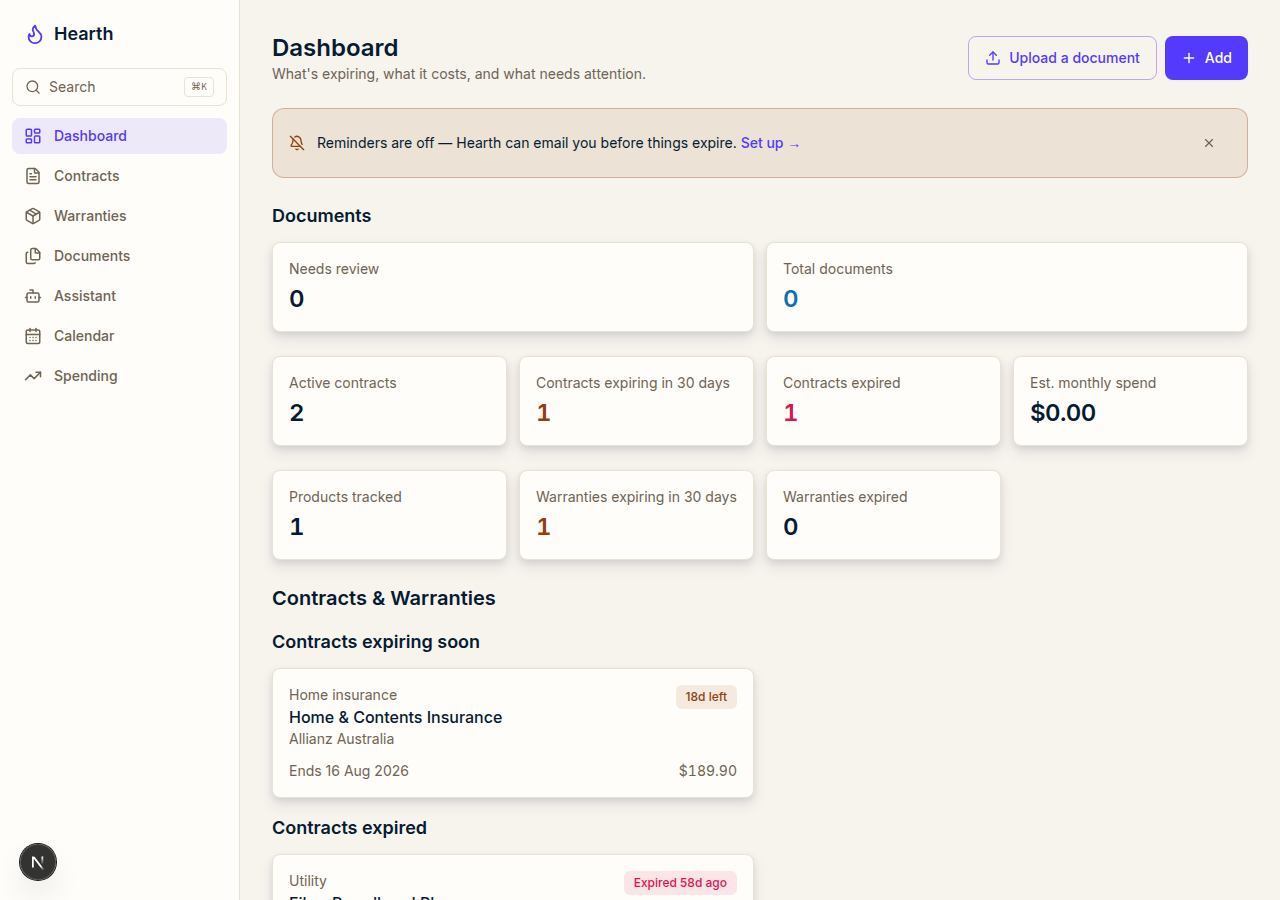
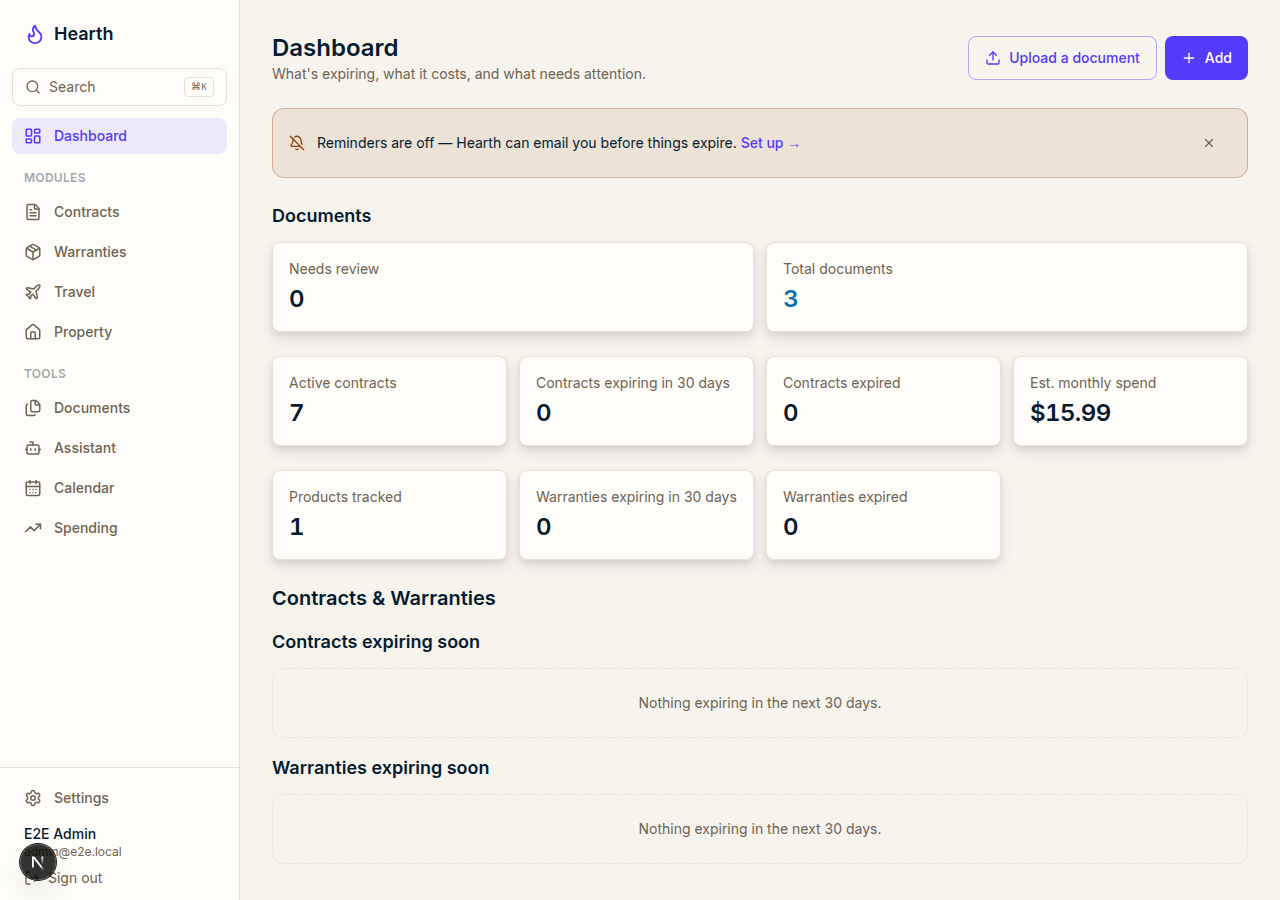
Group nav items into Modules/Tools sections, hide Assistant when unconfigured
Sidebar, mobile nav drawer, and bottom-nav "More" sheet now render
Dashboard standalone, followed by a Modules section (Contracts,
Warranties, plus enabled optional modules) and a Tools section
(Documents, Assistant, Calendar, Spending), per #125. getNavItems() also
drops the Assistant item entirely when no AI provider is configured for
the signed-in user, per #135.

Closes #125, #135

Claude-Session: https://claude.ai/code/session_01WJXJ5h3vGtjTTawv3Lkwcm

diff --git a/src/components/BottomNav.tsx b/src/components/BottomNav.tsx
@@ -17,10 +17,16 @@ function isActive(href: string, pathname: string) {
 // never grows past 5 slots on small screens.
 const PRIMARY_HREFS = ["/dashboard", "/contracts", "/products", "/calendar"];
 
-export function BottomNav({ enabledModules }: { enabledModules: ModuleKey[] }) {
+export function BottomNav({
+  enabledModules,
+  chatConfigured,
+}: {
+  enabledModules: ModuleKey[];
+  chatConfigured: boolean;
+}) {
   const pathname = usePathname();
   const [moreOpen, setMoreOpen] = useState(false);
-  const items = getNavItems(new Set(enabledModules));
+  const items = getNavItems(new Set(enabledModules), chatConfigured);
 
   // Close automatically on route change (link click).
   const [prevPathname, setPrevPathname] = useState(pathname);
@@ -42,6 +48,8 @@ export function BottomNav({ enabledModules }: { enabledModules: ModuleKey[] }) {
     (i): i is NonNullable<typeof i> => i != null,
   );
   const overflow = items.filter((i) => !PRIMARY_HREFS.includes(i.href));
+  const overflowModules = overflow.filter((i) => i.group === "modules");
+  const overflowTools = overflow.filter((i) => i.group === "tools");
   const overflowActive =
     overflow.some((i) => isActive(i.href, pathname)) || isActive("/settings", pathname);
 
@@ -102,8 +110,36 @@ export function BottomNav({ enabledModules }: { enabledModules: ModuleKey[] }) {
                 <X size={18} />
               </button>
             </div>
+            {overflowModules.length > 0 && (
+              <p className="mb-1.5 text-xs font-semibold uppercase tracking-wide text-foreground/40">
+                Modules
+              </p>
+            )}
             <div className="grid grid-cols-3 gap-2">
-              {overflow.map(({ href, label, icon: Icon }) => (
+              {overflowModules.map(({ href, label, icon: Icon }) => (
+                <Link
+                  key={href}
+                  href={href}
+                  className={cn(
+                    "flex flex-col items-center gap-1.5 rounded-lg p-3 text-xs font-medium",
+                    isActive(href, pathname)
+                      ? "bg-accent/10 text-accent"
+                      : "text-foreground/70 hover:bg-black/5 dark:hover:bg-white/5",
+                  )}
+                >
+                  <Icon size={20} />
+                  {label}
+                </Link>
+              ))}
+            </div>
+
+            {overflowTools.length > 0 && (
+              <p className="mb-1.5 mt-3 text-xs font-semibold uppercase tracking-wide text-foreground/40">
+                Tools
+              </p>
+            )}
+            <div className="grid grid-cols-3 gap-2">
+              {overflowTools.map(({ href, label, icon: Icon }) => (
                 <Link
                   key={href}
                   href={href}

diff --git a/src/components/MobileNavDrawer.tsx b/src/components/MobileNavDrawer.tsx
@@ -31,14 +31,19 @@ export function MobileNavDrawer({
   userName,
   userEmail,
   enabledModules,
+  chatConfigured,
 }: {
   userName: string;
   userEmail: string;
   enabledModules: ModuleKey[];
+  chatConfigured: boolean;
 }) {
   const pathname = usePathname();
   const [open, setOpen] = useState(false);
-  const items = getNavItems(new Set(enabledModules));
+  const items = getNavItems(new Set(enabledModules), chatConfigured);
+  const dashboardItems = items.filter((item) => item.group === "dashboard");
+  const moduleItems = items.filter((item) => item.group === "modules");
+  const toolItems = items.filter((item) => item.group === "tools");
   const startX = useRef<number | null>(null);
   const dragging = useRef(false);
 
@@ -125,7 +130,47 @@ export function MobileNavDrawer({
           </button>
         </div>
         <nav className="flex-1 space-y-1 overflow-y-auto px-3">
-          {items.map(({ href, label, icon: Icon }) => (
+          {dashboardItems.map(({ href, label, icon: Icon }) => (
+            <Link
+              key={href}
+              href={href}
+              onClick={close}
+              className={cn(
+                "flex items-center gap-3 rounded-lg px-3 py-2.5 text-sm font-medium transition",
+                isActive(href, pathname)
+                  ? "bg-accent/10 text-accent"
+                  : "text-foreground/70 hover:bg-black/5 dark:hover:bg-white/5",
+              )}
+            >
+              <Icon size={18} />
+              {label}
+            </Link>
+          ))}
+
+          <p className="mt-4 px-3 pb-1 text-xs font-semibold uppercase tracking-wide text-foreground/40">
+            Modules
+          </p>
+          {moduleItems.map(({ href, label, icon: Icon }) => (
+            <Link
+              key={href}
+              href={href}
+              onClick={close}
+              className={cn(
+                "flex items-center gap-3 rounded-lg px-3 py-2.5 text-sm font-medium transition",
+                isActive(href, pathname)
+                  ? "bg-accent/10 text-accent"
+                  : "text-foreground/70 hover:bg-black/5 dark:hover:bg-white/5",
+              )}
+            >
+              <Icon size={18} />
+              {label}
+            </Link>
+          ))}
+
+          <p className="mt-4 px-3 pb-1 text-xs font-semibold uppercase tracking-wide text-foreground/40">
+            Tools
+          </p>
+          {toolItems.map(({ href, label, icon: Icon }) => (
             <Link
               key={href}
               href={href}

diff --git a/src/components/Sidebar.tsx b/src/components/Sidebar.tsx
@@ -17,13 +17,18 @@ export function Sidebar({
   userName,
   userEmail,
   enabledModules,
+  chatConfigured,
 }: {
   userName: string;
   userEmail: string;
   enabledModules: ModuleKey[];
+  chatConfigured: boolean;
 }) {
   const pathname = usePathname();
-  const items = getNavItems(new Set(enabledModules));
+  const items = getNavItems(new Set(enabledModules), chatConfigured);
+  const dashboardItems = items.filter((item) => item.group === "dashboard");
+  const moduleItems = items.filter((item) => item.group === "modules");
+  const toolItems = items.filter((item) => item.group === "tools");
 
   return (
     <aside className="hidden w-60 flex-col border-r border-border bg-surface md:flex">
@@ -45,7 +50,51 @@ export function Sidebar({
       </div>
 
       <nav className="flex-1 space-y-1 px-3">
-        {items.map(({ href, label, icon: Icon }) => {
+        {dashboardItems.map(({ href, label, icon: Icon }) => {
+          const active = isActive(href, pathname);
+          return (
+            <Link
+              key={href}
+              href={href}
+              className={cn(
+                "flex items-center gap-3 rounded-lg px-3 py-2 text-sm font-medium transition",
+                active
+                  ? "bg-accent/10 text-accent"
+                  : "text-muted hover:bg-black/5 dark:hover:bg-white/5",
+              )}
+            >
+              <Icon size={18} />
+              {label}
+            </Link>
+          );
+        })}
+
+        <p className="mt-4 px-3 pb-1 text-xs font-semibold uppercase tracking-wide text-foreground/40">
+          Modules
+        </p>
+        {moduleItems.map(({ href, label, icon: Icon }) => {
+          const active = isActive(href, pathname);
+          return (
+            <Link
+              key={href}
+              href={href}
+              className={cn(
+                "flex items-center gap-3 rounded-lg px-3 py-2 text-sm font-medium transition",
+                active
+                  ? "bg-accent/10 text-accent"
+                  : "text-muted hover:bg-black/5 dark:hover:bg-white/5",
+              )}
+            >
+              <Icon size={18} />
+              {label}
+            </Link>
+          );
+        })}
+
+        <p className="mt-4 px-3 pb-1 text-xs font-semibold uppercase tracking-wide text-foreground/40">
+          Tools
+        </p>
+        {toolItems.map(({ href, label, icon: Icon }) => {
           const active = isActive(href, pathname);
           return (
             <Link

diff --git a/src/components/nav-items.ts b/src/components/nav-items.ts
@@ -1,26 +1,35 @@
 import { LayoutDashboard, FileText, Package, CalendarDays, TrendingUp, Files, Bot, type LucideIcon } from "lucide-react";
 import { MODULE_REGISTRY, type ModuleKey } from "@/lib/modules/registry";
 
+// "dashboard" stands alone (not part of either group); "modules" are
+// record-type sections (Contracts, Warranties, plus whichever optional
+// modules are enabled); "tools" are cross-cutting views that work across
+// all record types (Documents, Calendar, Spending, Assistant).
+export type NavGroup = "dashboard" | "modules" | "tools";
+
 export interface NavItem {
   href: string;
   label: string;
   icon: LucideIcon;
+  group: NavGroup;
 }
 
 const BASE_NAV_ITEMS: NavItem[] = [
-  { href: "/dashboard", label: "Dashboard", icon: LayoutDashboard },
-  { href: "/contracts", label: "Contracts", icon: FileText },
-  { href: "/products", label: "Warranties", icon: Package },
-  { href: "/documents", label: "Documents", icon: Files },
-  { href: "/assistant", label: "Assistant", icon: Bot },
-  { href: "/calendar", label: "Calendar", icon: CalendarDays },
-  { href: "/spend", label: "Spending", icon: TrendingUp },
+  { href: "/dashboard", label: "Dashboard", icon: LayoutDashboard, group: "dashboard" },
+  { href: "/contracts", label: "Contracts", icon: FileText, group: "modules" },
+  { href: "/products", label: "Warranties", icon: Package, group: "modules" },
+  { href: "/documents", label: "Documents", icon: Files, group: "tools" },
+  { href: "/assistant", label: "Assistant", icon: Bot, group: "tools" },
+  { href: "/calendar", label: "Calendar", icon: CalendarDays, group: "tools" },
+  { href: "/spend", label: "Spending", icon: TrendingUp, group: "tools" },
 ];
 
-export function getNavItems(enabledModules: Set<ModuleKey>): NavItem[] {
+export function getNavItems(enabledModules: Set<ModuleKey>, chatConfigured: boolean): NavItem[] {
   const moduleItems = Object.values(MODULE_REGISTRY)
     .filter((module) => enabledModules.has(module.key))
-    .map(({ href, label, icon }) => ({ href, label, icon }));
+    .map(({ href, label, icon }): NavItem => ({ href, label, icon, group: "modules" }));
 
-  return [...BASE_NAV_ITEMS, ...moduleItems];
+  return [...BASE_NAV_ITEMS, ...moduleItems].filter(
+    (item) => item.href !== "/assistant" || chatConfigured,
+  );
 }

diff --git a/src/app/(app)/layout.tsx b/src/app/(app)/layout.tsx
@@ -9,6 +9,7 @@ import { OfflineSyncManager } from "@/components/OfflineSyncManager";
 import { GlobalSearch } from "@/components/GlobalSearch";
 import { ToastContainer } from "@/components/Toast";
 import { getEnabledModuleKeys } from "@/lib/modules/enablement";
+import { getChatUser, isChatConfigured } from "@/lib/ai/chat/dispatch";
 
 export default async function AppLayout({ children }: { children: React.ReactNode }) {
   const session = await auth();
@@ -19,7 +20,12 @@ export default async function AppLayout({ children }: { children: React.ReactNod
   // Icon components can't cross the server/client boundary as props, so we
   // only pass the enabled module keys down and let Sidebar/BottomNav build
   // their own nav item list (with icons) on the client.
-  const enabledModules = [...(await getEnabledModuleKeys())];
+  const [enabledModulesSet, chatUser] = await Promise.all([
+    getEnabledModuleKeys(),
+    getChatUser(session.user.id),
+  ]);
+  const enabledModules = [...enabledModulesSet];
+  const chatConfigured = isChatConfigured(chatUser);
 
   return (
     <div className="flex min-h-screen">
@@ -30,6 +36,7 @@ export default async function AppLayout({ children }: { children: React.ReactNod
         userName={session.user.name ?? ""}
         userEmail={session.user.email ?? ""}
         enabledModules={enabledModules}
+        chatConfigured={chatConfigured}
       />
       <div className="flex flex-1 flex-col">
         <TopBar />
@@ -39,11 +46,12 @@ export default async function AppLayout({ children }: { children: React.ReactNod
           {children}
         </main>
       </div>
-      <BottomNav enabledModules={enabledModules} />
+      <BottomNav enabledModules={enabledModules} chatConfigured={chatConfigured} />
       <MobileNavDrawer
         userName={session.user.name ?? ""}
         userEmail={session.user.email ?? ""}
         enabledModules={enabledModules}
+        chatConfigured={chatConfigured}
       />
       <GlobalSearch />
       <ToastContainer />
